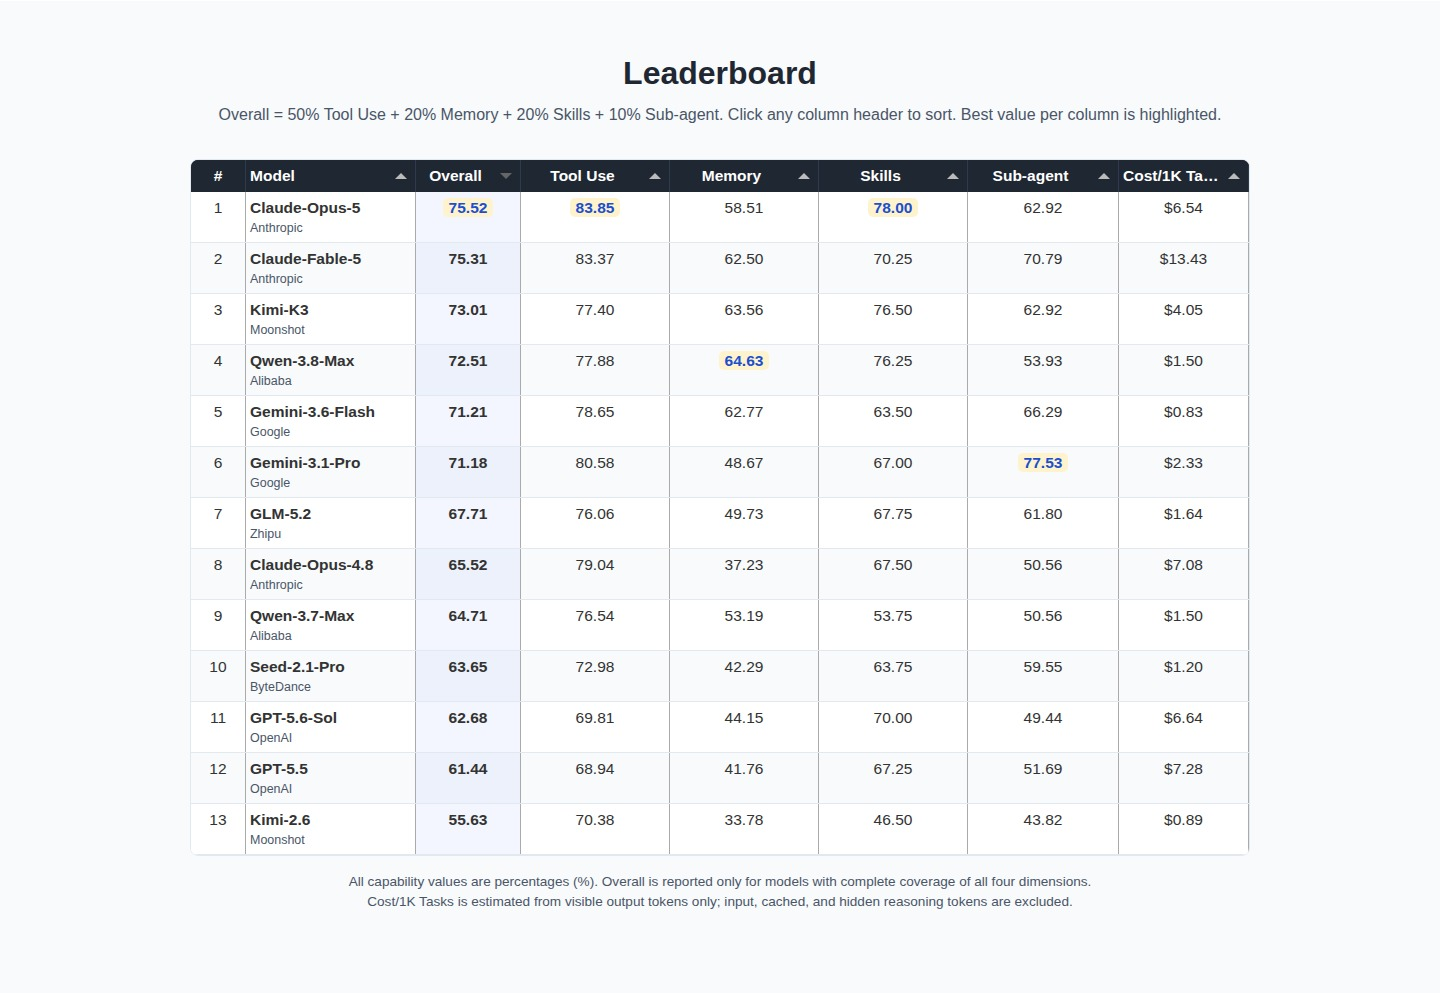
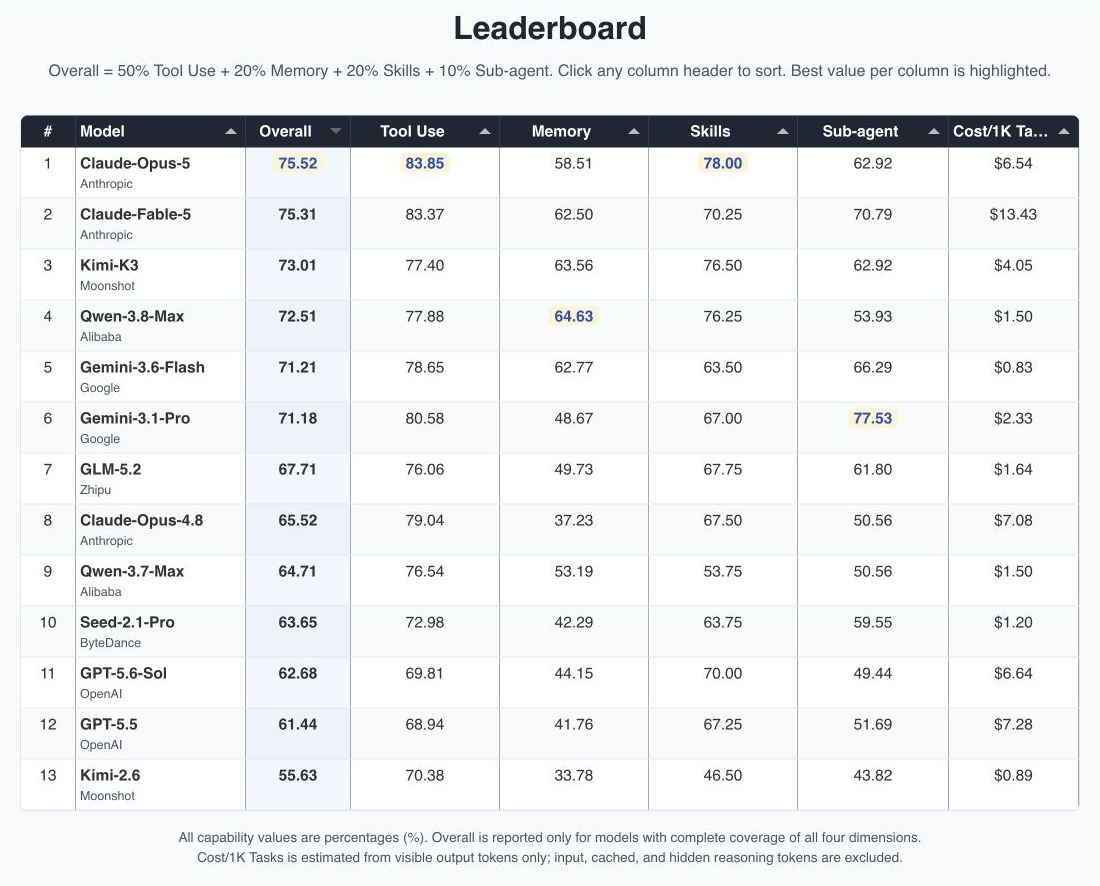
Tighten leaderboard preview crop

diff --git a/README.md b/README.md
@@ -22,7 +22,7 @@
 
 <p align="center">
   <a href="https://tongyi-mai.github.io/MobilePA-Bench/#leaderboard">
-    <img src="github-pages/static/images/leaderboard.jpg" alt="MobilePA-Bench leaderboard" width="960">
+    <img src="github-pages/static/images/leaderboard.jpg" alt="MobilePA-Bench leaderboard" width="1100">
   </a>
 </p>
 
